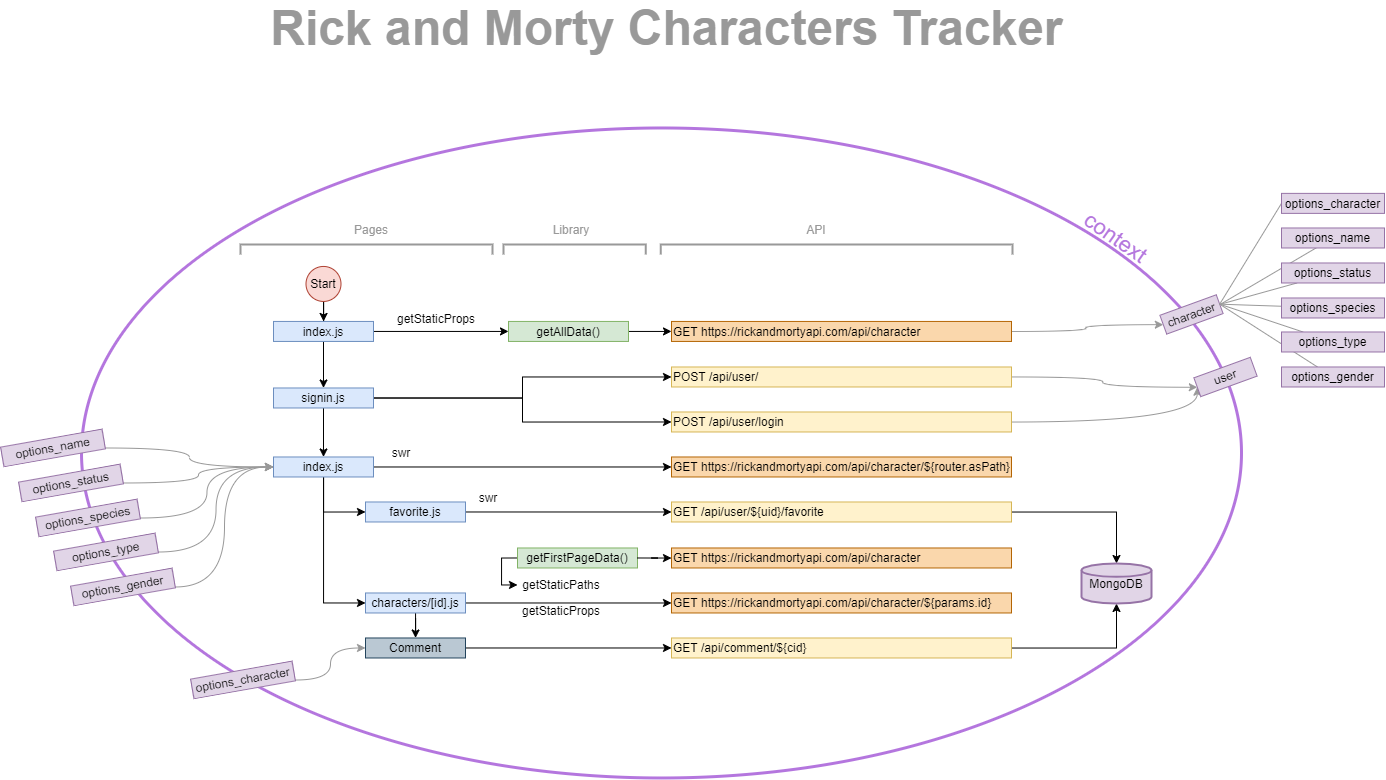
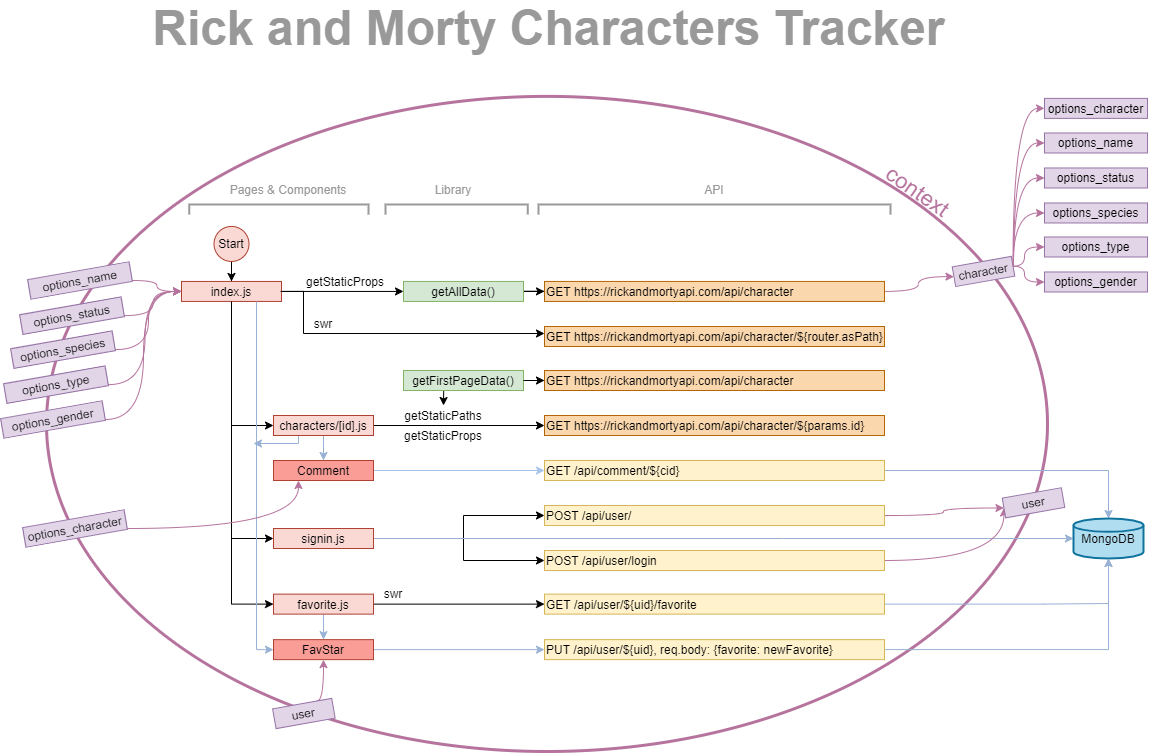
ADD: jwt varify & UPDATE: reducer SET_USER

diff --git a/pages/api/user/[id].js b/pages/api/user/[id].js
@@ -5,7 +5,7 @@ dbConnect();
 
 export default async (req, res) => {
   const {
-    query: { id },
+    user: { uid },
     method,
   } = req;
 
@@ -13,7 +13,7 @@ export default async (req, res) => {
     // Get one user with uid
     case "GET":
       try {
-        const user = await User.findById(id);
+        const user = await User.findById(uid);
 
         if (!user) {
           return res
@@ -22,41 +22,6 @@ export default async (req, res) => {
         }
 
         res.status(200).json({ success: true, data: user });
-      } catch (error) {
-        const errRes = error.response;
-        res.status(400).json({ success: false, errRes });
-      }
-      break;
-    // Update one user with uid
-    case "PUT":
-      try {
-        const user = await User.findByIdAndUpdate(id, req.body, {
-          new: true,
-          runValidators: true,
-        });
-
-        if (!user) {
-          return res
-            .status(400)
-            .json({ success: false, message: "Can't find the user." });
-        }
-
-        res.status(200).json({ success: true, data: user });
-      } catch (error) {
-        const errRes = error.response;
-        res.status(400).json({ success: false, errRes });
-      }
-      break;
-    // Detele one user with uid
-    case "DELETE":
-      try {
-        const deletedUser = await User.deleteOne({ _id: id });
-
-        if (!deletedUser) {
-          return res.status(400).json({ success: false });
-        }
-
-        res.status(200).json({ success: true, data: {} });
       } catch (error) {
         const errRes = error.response;
         res.status(400).json({ success: false, errRes });

diff --git a/components/Layout.js b/components/Layout.js
@@ -6,23 +6,24 @@ import { useRouter } from "next/router";
 import { useStateValue } from "../context/StateProvider";
 import { useEffect } from "react";
 import StarIcon from "@material-ui/icons/Star";
+import jwt from "jsonwebtoken";
 
 const name = "Rick and Morty Character Tracker";
 export const siteTitle = "Created by Kuei-Chin Huang";
 
 export default function Layout({ children, home }) {
   const router = useRouter();
-  const [{ user }, dispatch] = useStateValue();
+  const [{ username }, dispatch] = useStateValue();
 
   useEffect(() => {
-    const authCheck = localStorage.getItem("user");
+    const username = localStorage.getItem("username");
     const characterCheck = localStorage.getItem("characters");
 
-    if (authCheck) {
+    if (username) {
       dispatch({
         type: "SET_USER",
         payload: {
-          user: JSON.parse(authCheck),
+          username: username,
         },
       });
     }
@@ -68,7 +69,7 @@ export default function Layout({ children, home }) {
             />
             <div className={styles.title}>
               <h1 className={styles.heading2Xl}>{name}</h1>
-              {user ? (
+              {username ? (
                 <Link href="/favorite">
                   <a className={styles.btn}>
                     My Favorite
@@ -96,7 +97,7 @@ export default function Layout({ children, home }) {
                 </Link>
               </h2>
 
-              {user ? (
+              {username ? (
                 <Link href="/favorite">
                   <a className={styles.btn}>
                     My Favorite

diff --git a/components/layout.js b/components/layout.js
@@ -6,23 +6,24 @@ import { useRouter } from "next/router";
 import { useStateValue } from "../context/StateProvider";
 import { useEffect } from "react";
 import StarIcon from "@material-ui/icons/Star";
+import jwt from "jsonwebtoken";
 
 const name = "Rick and Morty Character Tracker";
 export const siteTitle = "Created by Kuei-Chin Huang";
 
 export default function Layout({ children, home }) {
   const router = useRouter();
-  const [{ user }, dispatch] = useStateValue();
+  const [{ username }, dispatch] = useStateValue();
 
   useEffect(() => {
-    const authCheck = localStorage.getItem("user");
+    const username = localStorage.getItem("username");
     const characterCheck = localStorage.getItem("characters");
 
-    if (authCheck) {
+    if (username) {
       dispatch({
         type: "SET_USER",
         payload: {
-          user: JSON.parse(authCheck),
+          username: username,
         },
       });
     }
@@ -68,7 +69,7 @@ export default function Layout({ children, home }) {
             />
             <div className={styles.title}>
               <h1 className={styles.heading2Xl}>{name}</h1>
-              {user ? (
+              {username ? (
                 <Link href="/favorite">
                   <a className={styles.btn}>
                     My Favorite
@@ -96,7 +97,7 @@ export default function Layout({ children, home }) {
                 </Link>
               </h2>
 
-              {user ? (
+              {username ? (
                 <Link href="/favorite">
                   <a className={styles.btn}>
                     My Favorite

diff --git a/pages/api/favorite.js b/pages/api/favorite.js
@@ -1,0 +1,45 @@
+import dbConnect from "../../util/dbConnect";
+import User from "../../models/User";
+import jwt from "jsonwebtoken";
+
+dbConnect();
+
+const authenticated = (fn) => async (req, res) => {
+  const token = req.headers.authorization;
+
+  jwt.verify(
+    token,
+    process.env.ACCESS_TOKEN_SECRET,
+    async function (err, user) {
+      if (!err && user) {
+        req.user = user;
+        return await fn(req, res);
+      }
+      return res.status(403).send({ message: "Invalid token" });
+    }
+  );
+};
+
+export default authenticated(async (req, res) => {
+  const {
+    user: { uid },
+    method,
+  } = req;
+
+  switch (method) {
+    // Get all users
+    case "GET":
+      try {
+        const user = await User.findById(uid);
+        const favorite = user.favorite;
+        res.status(200).json({ success: true, data: favorite });
+      } catch (error) {
+        res.status(400).json({ success: false, error });
+      }
+      break;
+
+    // Method doesn't exist
+    default:
+      res.status(400).json({ success: false, error: "Method is wrong." });
+  }
+});

diff --git a/pages/signin.js b/pages/signin.js
@@ -20,18 +20,20 @@ const SignIn = () => {
     } else {
       try {
         const res = await Axios.post("/api/user/login", { username, password });
-
-        if (res.data.success) {
-          const user = res.data.data;
-          dispatch({
-            type: "SET_USER",
-            payload: {
-              user: {
-                uid: user._id,
-                username: user.username,
-              },
-            },
-          });
+        if (res.data.accessToken) {
+          localStorage.setItem("token", res.data.accessToken);
+          localStorage.setItem("username", username);
+          // console.log(res.data);
+          // const user = res.data.data;
+          // dispatch({
+          //   type: "SET_USER",
+          //   payload: {
+          //     user: {
+          //       uid: user._id,
+          //       username: user.username,
+          //     },
+          //   },
+          // });
           setMessage(`Welcome back, ${username}!`);
           router.push("/");
         } else {

diff --git a/components/Navbar.js b/components/Navbar.js
@@ -4,7 +4,7 @@ import { useStateValue } from "../context/StateProvider";
 import { useRouter } from "next/router";
 
 const Navbar = () => {
-  const [{ user }, dispatch] = useStateValue();
+  const [{ username }, dispatch] = useStateValue();
   const router = useRouter();
 
   const signOut = () => {
@@ -16,13 +16,11 @@ const Navbar = () => {
 
   return (
     <div className={styles.navbar}>
-      {user ? (
+      {username ? (
         <>
           <span>
-            Hello, <strong>{user.username}</strong>!
+            Hello, <strong>{username}</strong>!
           </span>
-
-          <span>UID: {user.uid}</span>
 
           <div className={styles.btn} onClick={signOut}>
             Sign Out

diff --git a/context/reducer.js b/context/reducer.js
@@ -1,5 +1,5 @@
 export const initialState = {
-  user: null,
+  username: null,
   characters: null,
   options_character: null,
   options_name: null,
@@ -12,10 +12,9 @@ export const initialState = {
 const reducer = (state, action) => {
   switch (action.type) {
     case "SET_USER":
-      localStorage.setItem("user", JSON.stringify(action.payload.user));
       return {
         ...state,
-        user: action.payload.user,
+        username: action.payload.username,
       };
 
     case "LOG_OUT":
